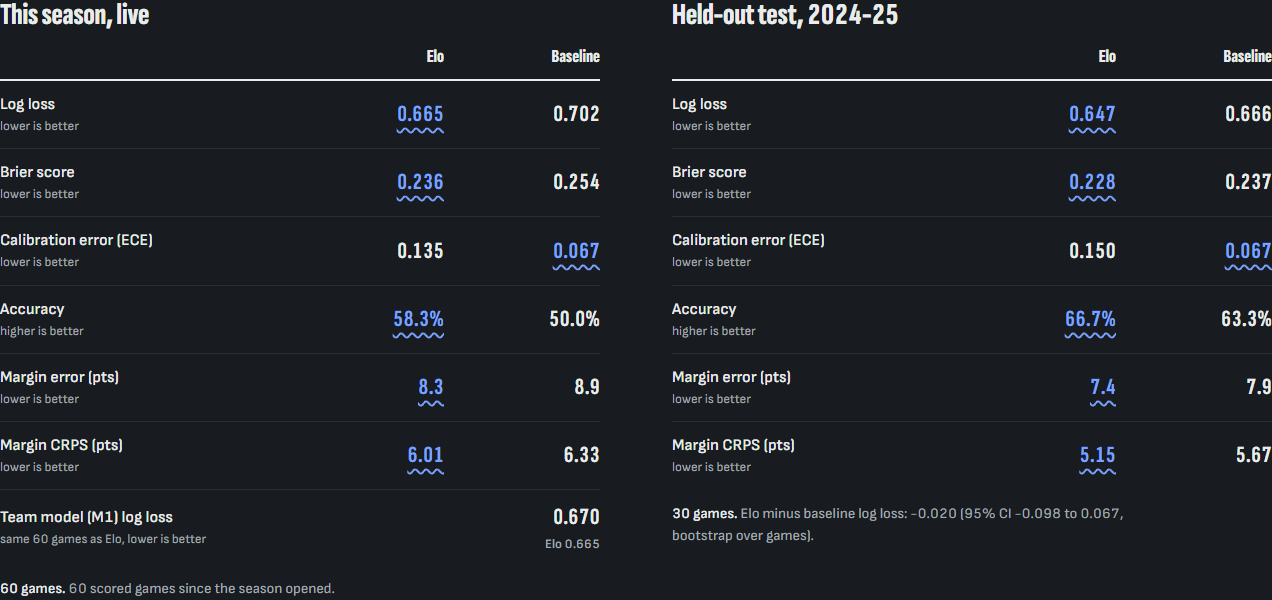
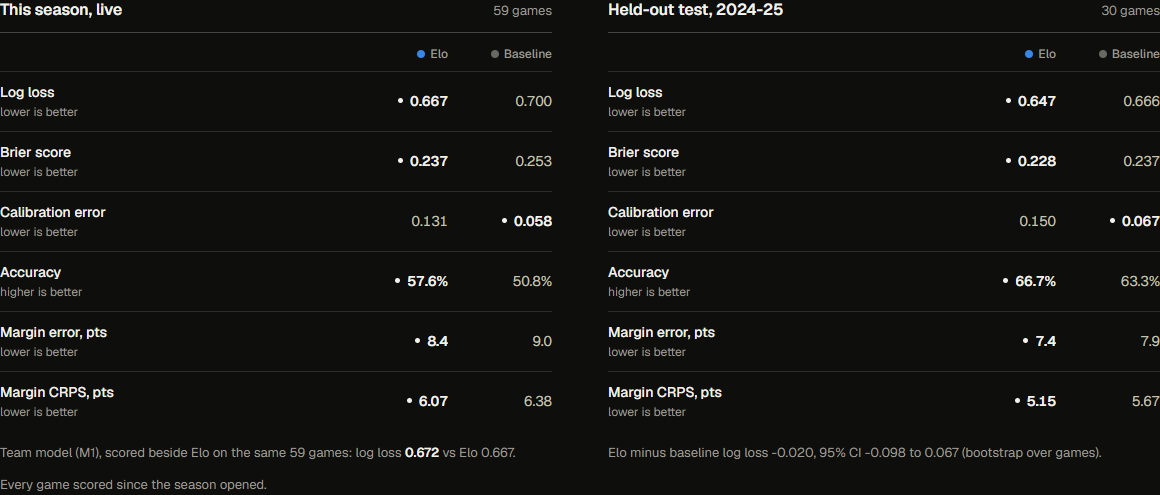
Checklist item 20: look for the M1 line the redesigned scorecard shows, not a table row

diff --git a/scripts/checks/screenshots.py b/scripts/checks/screenshots.py
@@ -1,5 +1,6 @@
-"""Checklist item 20: screenshots of the EuroLeague scorecard (with the M1 row) at 1440 and 390 px,
-light and dark, plus the horizontal overflow. Usage: screenshots.py <built site dir> <out dir>."""
+"""Checklist item 20: screenshots of the EuroLeague scorecard (with the M1 line) at 1440 and 390
+px, light and dark, plus the horizontal overflow. Usage: screenshots.py <built site dir> <out dir>.
+"""
 
 import functools
 import http.server
@@ -34,10 +35,12 @@ with sync_playwright() as p:
             overflow = page.evaluate(
                 "document.documentElement.scrollWidth - document.documentElement.clientWidth"
             )
-            row = page.locator(f"{scorecard} tr.m1")
+            row = page.locator(f"{scorecard} .m1")
             visible = row.count() == 1 and row.is_visible()
             page.locator(scorecard).screenshot(path=str(out / f"scorecard_m1_{width}_{scheme}.png"))
-            print(f"{scheme} {width}: horizontal overflow {overflow} px; M1 row visible: {visible}")
+            print(
+                f"{scheme} {width}: horizontal overflow {overflow} px; M1 line visible: {visible}"
+            )
             ok &= overflow == 0 and visible
             page.close()
     browser.close()
